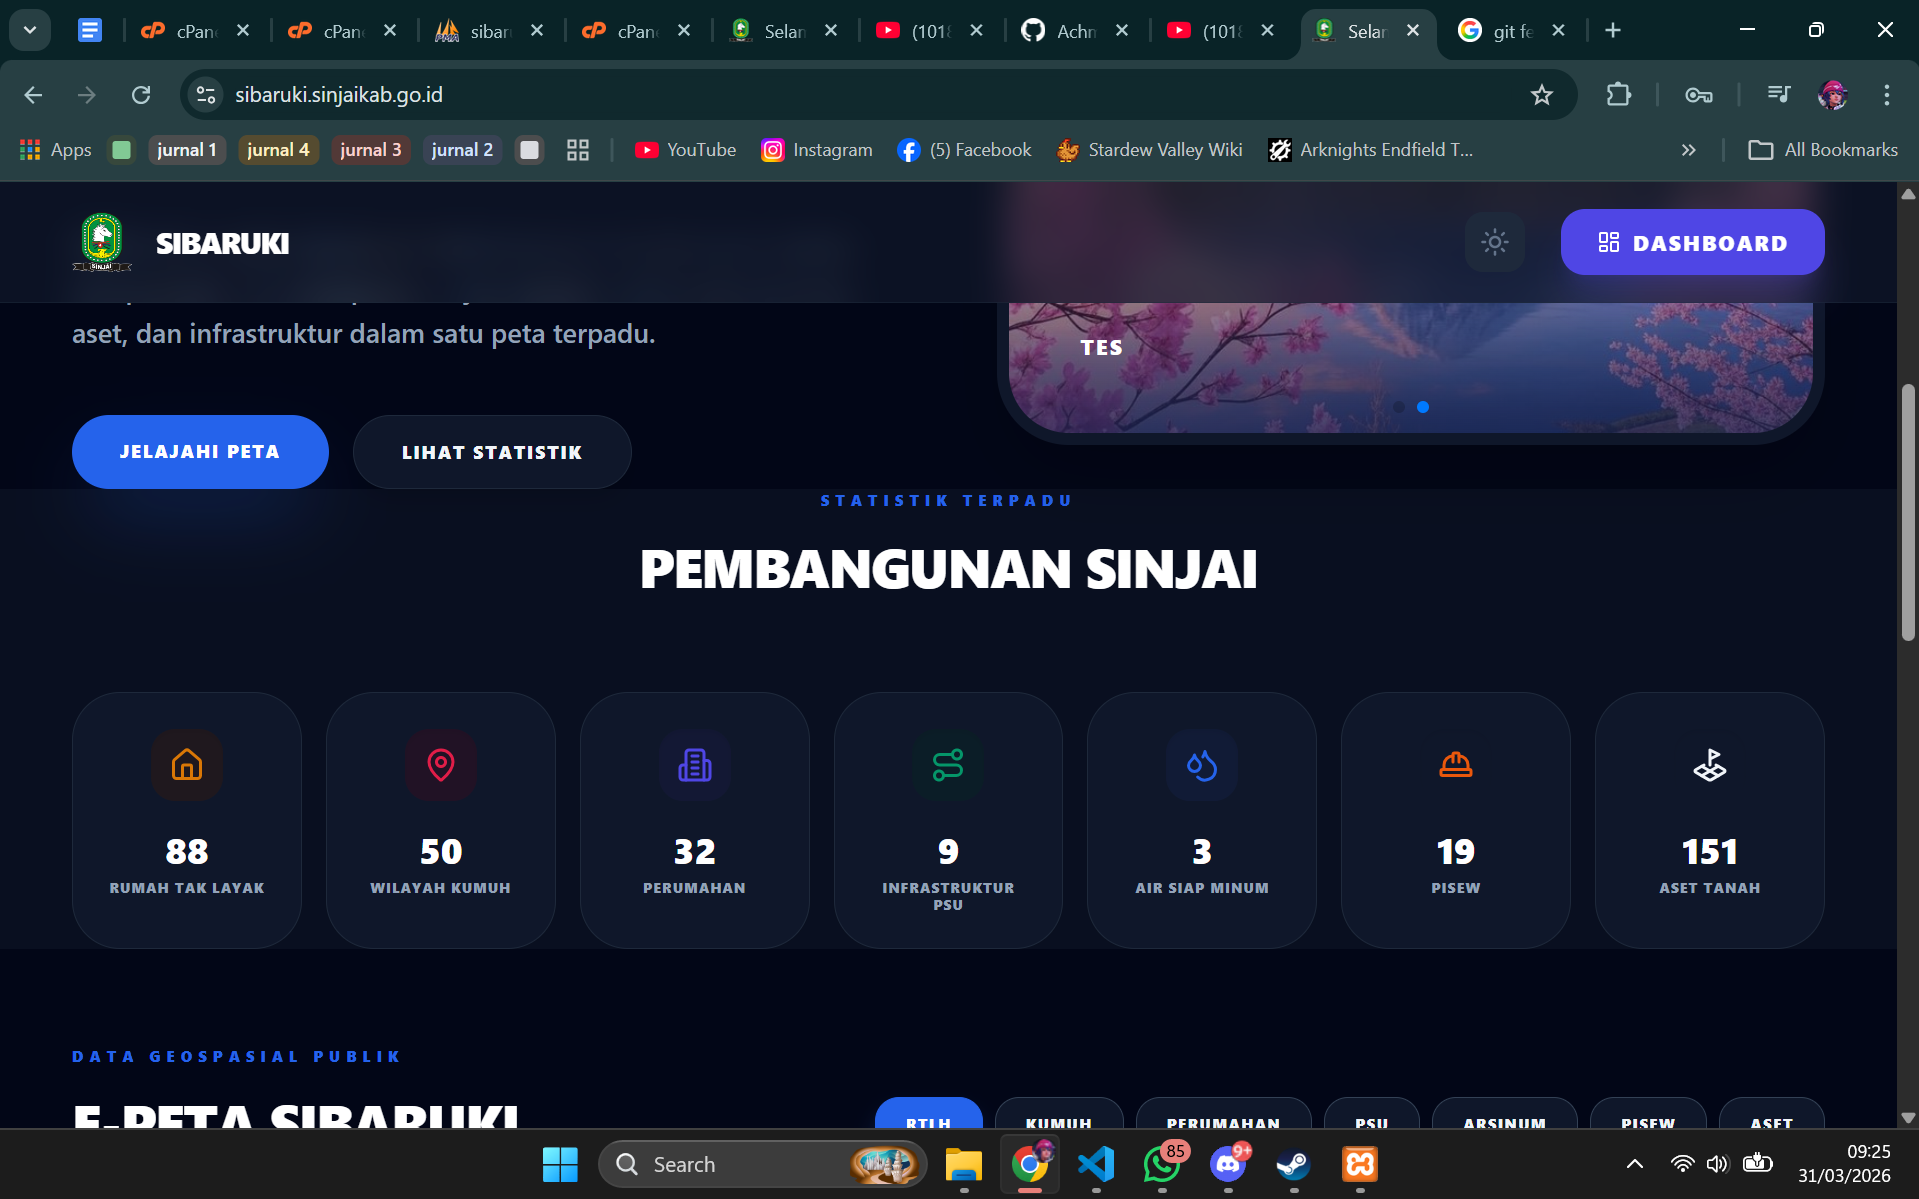
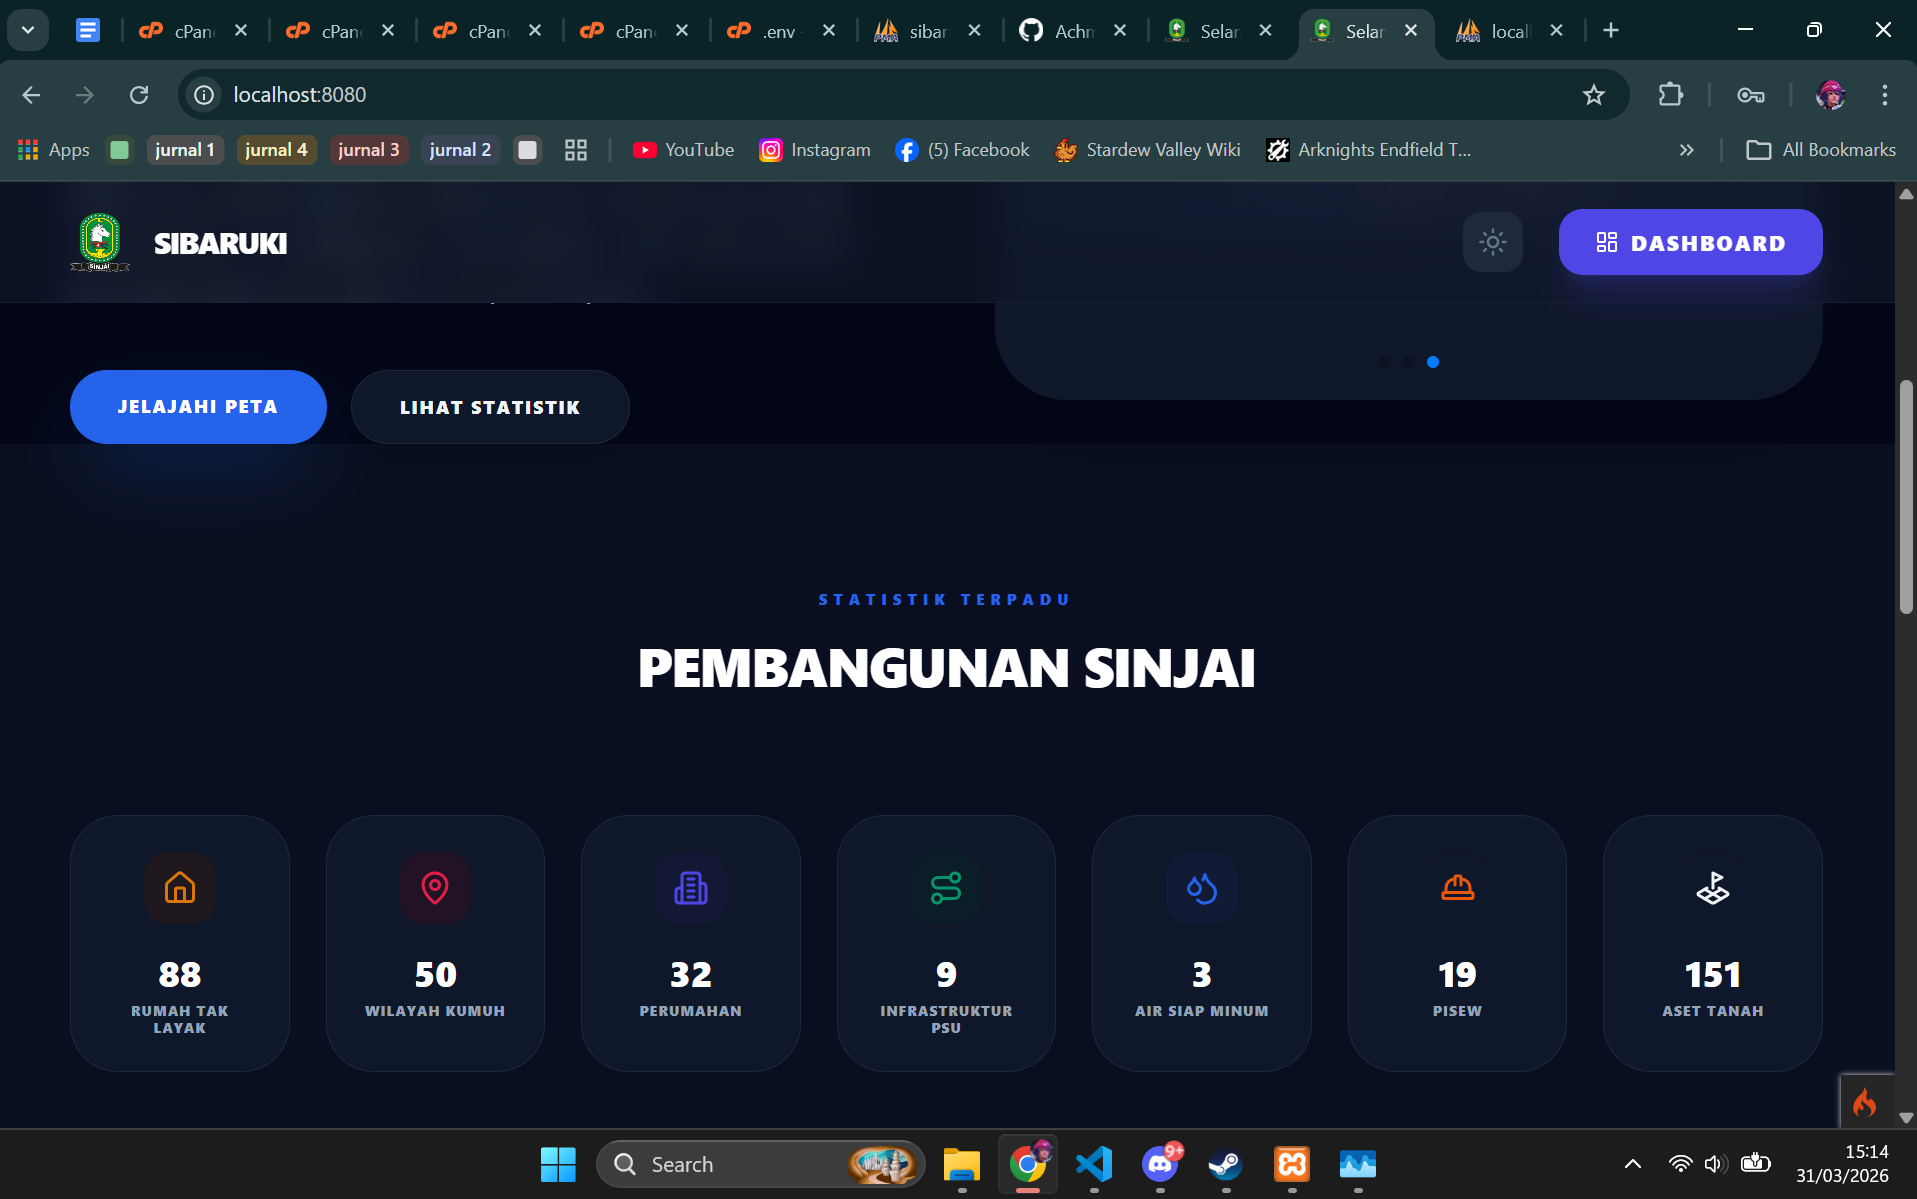
style: improve statistic layout

diff --git a/public/css/app.css b/public/css/app.css
@@ -830,6 +830,9 @@ video {
 .h-12 {
   height: 3rem;
 }
+.h-14 {
+  height: 3.5rem;
+}
 .h-16 {
   height: 4rem;
 }
@@ -926,6 +929,9 @@ video {
 .max-h-32 {
   max-height: 8rem;
 }
+.min-h-\[200px\] {
+  min-height: 200px;
+}
 .min-h-\[60vh\] {
   min-height: 60vh;
 }
@@ -943,6 +949,9 @@ video {
 }
 .w-12 {
   width: 3rem;
+}
+.w-14 {
+  width: 3.5rem;
 }
 .w-16 {
   width: 4rem;
@@ -1037,6 +1046,9 @@ video {
 }
 .max-w-7xl {
   max-width: 80rem;
+}
+.max-w-\[100px\] {
+  max-width: 100px;
 }
 .max-w-\[150px\] {
   max-width: 150px;
@@ -2171,6 +2183,9 @@ video {
 }
 .tracking-\[0\.15em\] {
   letter-spacing: 0.15em;
+}
+.tracking-\[0\.1em\] {
+  letter-spacing: 0.1em;
 }
 .tracking-\[0\.2em\] {
   letter-spacing: 0.2em;

diff --git a/app/Controllers/Settings.php b/app/Controllers/Settings.php
@@ -48,7 +48,9 @@ class Settings extends BaseController
         $settingsModel = new SettingsModel();
         $captions = $this->request->getPost('caption') ?? [];
         $oldImages = $this->request->getPost('old_image') ?? [];
-        $files = $this->request->getFileMultiple('image');
+        
+        // Ambil SEMUA file yang diupload (baik index baru atau lama)
+        $uploadedFiles = $this->request->getFiles();
 
         $carouselData = [];
         $uploadPath = FCPATH . 'uploads/carousel/';
@@ -57,12 +59,19 @@ class Settings extends BaseController
         foreach ($captions as $index => $caption) {
             $imageUrl = $oldImages[$index] ?? '';
 
-            // Handle New Upload if valid
-            if (isset($files[$index]) && $files[$index]->isValid() && !$files[$index]->hasMoved()) {
-                $newName = $files[$index]->getRandomName();
-                $files[$index]->move($uploadPath, $newName);
+            // Cari file di dalam array multidimensional Files CI4
+            // Formatnya biasanya image[index]
+            $file = null;
+            if (isset($uploadedFiles['image'][$index])) {
+                $file = $uploadedFiles['image'][$index];
+            }
+
+            // Jika ada upload file baru untuk index ini
+            if ($file && $file->isValid() && !$file->hasMoved()) {
+                $newName = $file->getRandomName();
+                $file->move($uploadPath, $newName);
                 
-                // Delete physical old file if exists
+                // HAPUS file lama secara fisik jika ada penggantian
                 if (!empty($imageUrl)) {
                     $oldPath = FCPATH . str_replace(base_url(), '', $imageUrl);
                     if (file_exists($oldPath)) @unlink($oldPath);
@@ -71,9 +80,8 @@ class Settings extends BaseController
                 $imageUrl = 'uploads/carousel/' . $newName;
             }
 
-            // Hanya tambahkan jika ada image (lama atau baru)
+            // Hanya simpan jika ada gambar (baik yang baru atau yang lama tetap dipertahankan)
             if (!empty($imageUrl)) {
-                // Bersihkan URL dari base_url() jika masih ada
                 $relativePath = str_replace(base_url(), '', $imageUrl);
                 $relativePath = ltrim($relativePath, '/');
 

diff --git a/app/Views/home.php b/app/Views/home.php
@@ -76,12 +76,12 @@
                 ['aset', 'land-plot', 'cyan', 'Aset Tanah'],
             ];
             foreach($metrics as $m): ?>
-            <div class="bg-white dark:bg-slate-900 p-6 rounded-[2rem] border border-slate-100 dark:border-slate-800 shadow-sm hover:shadow-xl transition-all duration-500 group text-center">
-                <div class="w-12 h-12 mx-auto rounded-2xl bg-<?= $m[2] ?>-50 dark:bg-<?= $m[2] ?>-950/30 text-<?= $m[2] ?>-600 flex items-center justify-center mb-4 group-hover:scale-110 transition-transform shadow-inner">
-                    <i data-lucide="<?= $m[1] ?>" class="w-6 h-6"></i>
+            <div class="bg-white dark:bg-slate-900 p-8 rounded-[2.5rem] border border-slate-100 dark:border-slate-800 shadow-sm hover:shadow-xl transition-all duration-500 group text-center flex flex-col items-center justify-center min-h-[200px]">
+                <div class="w-14 h-14 mx-auto rounded-2xl bg-<?= $m[2] ?>-50 dark:bg-<?= $m[2] ?>-950/30 text-<?= $m[2] ?>-600 flex items-center justify-center mb-5 group-hover:scale-110 transition-transform shadow-inner">
+                    <i data-lucide="<?= $m[1] ?>" class="w-7 h-7"></i>
                 </div>
-                <h4 class="text-2xl font-black text-blue-950 dark:text-white mb-1"><?= number_format($rekap[$m[0]] ?? 0) ?></h4>
-                <p class="text-[9px] font-black text-slate-400 uppercase tracking-widest leading-tight"><?= $m[3] ?></p>
+                <h4 class="text-3xl font-black text-blue-950 dark:text-white mb-2 leading-none"><?= number_format($rekap[$m[0]] ?? 0) ?></h4>
+                <p class="text-[10px] font-black text-slate-400 uppercase tracking-[0.1em] leading-tight max-w-[100px]"><?= $m[3] ?></p>
             </div>
             <?php endforeach; ?>
         </div>
